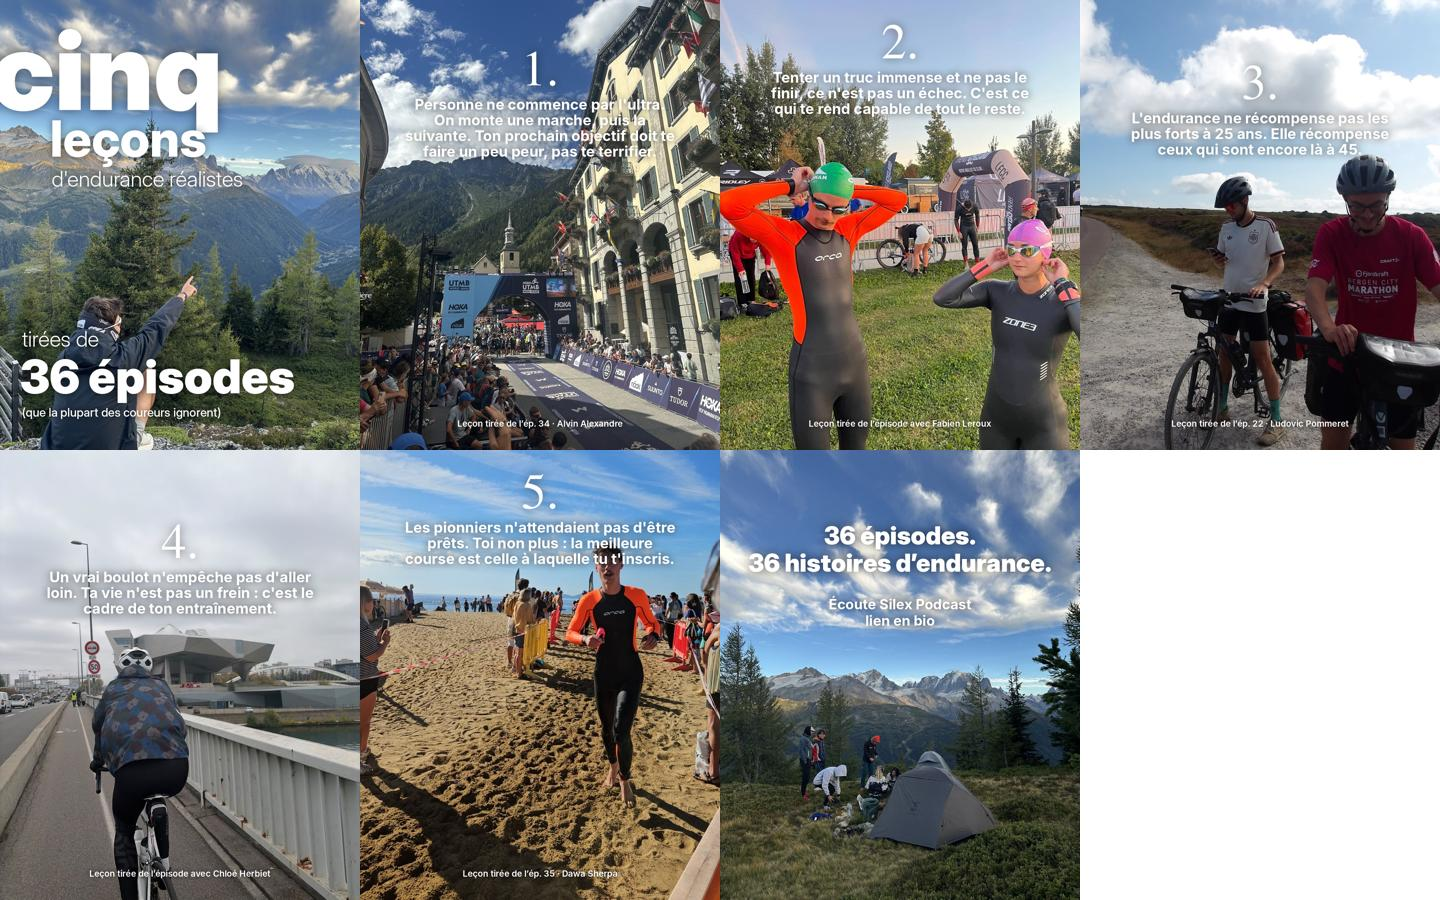
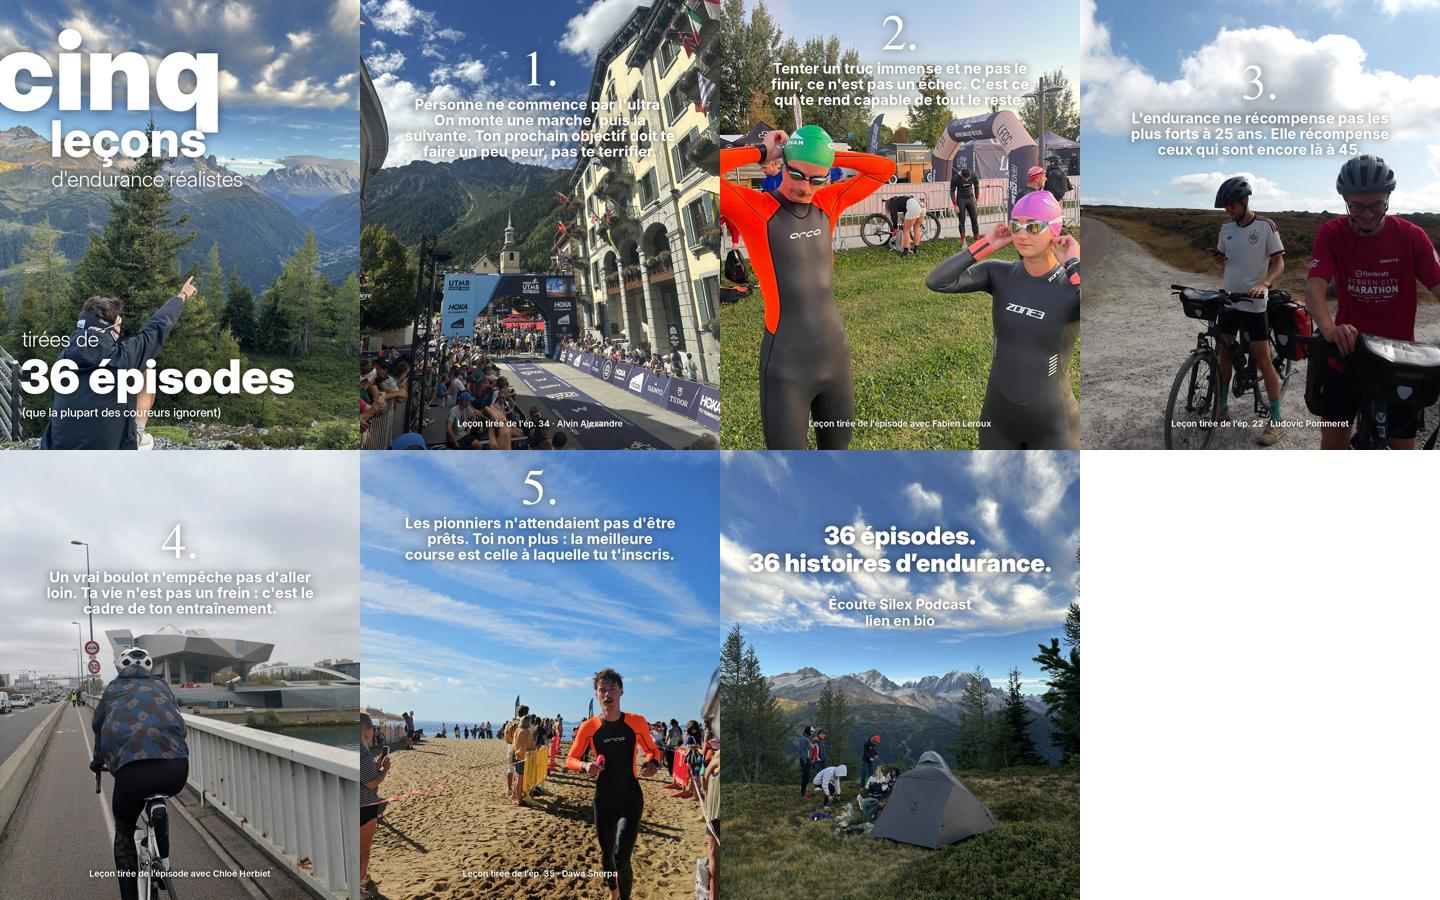
Carrousel Silex : zoom sur la photo en combinaison, slide 5 recadrée
Claude-Session: https://claude.ai/code/session_01Bwd8fxM92NWrr3aL1Qd296

Changed region(s): [[0.25, 0.4978, 0.5, 1.0], [0.5, 0.0, 0.75, 0.4978]]

diff --git a/carrousel-silex/make.py b/carrousel-silex/make.py
@@ -16,7 +16,7 @@ def font(name, size):
     return ImageFont.truetype(path, size)
 
 
-def photo(name, fx=0.5, fy=0.5):
+def photo(name, fx=0.5, fy=0.5, zoom=1.0):
     """Recadre la photo en 4:5 autour du point (fx, fy) puis la met en 1080x1350."""
     im = Image.open(os.path.join(HERE, 'photos', name + '.jpg')).convert('RGB')
     w, h = im.size
@@ -24,6 +24,7 @@ def photo(name, fx=0.5, fy=0.5):
         cw, ch = int(h * W / H), h
     else:
         cw, ch = w, int(w * H / W)
+    cw, ch = int(cw / zoom), int(ch / zoom)
     x = min(max(int(fx * w - cw / 2), 0), w - cw)
     y = min(max(int(fy * h - ch / 2), 0), h - ch)
     return im.crop((x, y, x + cw, y + ch)).resize((W, H), Image.LANCZOS).convert('RGBA')
@@ -61,8 +62,8 @@ def cover():
     return im
 
 
-def lesson(name, fx, fy, n, body, credit, cy):
-    im = photo(name, fx, fy)
+def lesson(name, fx, fy, n, body, credit, cy, zoom=1.0):
+    im = photo(name, fx, fy, zoom)
     y = int(H * cy)
     text(im, (W // 2, y), f'{n}.', font('FreeSerif', 150), anchor='ms', blur=14, op=130)
     b = font('Inter:bold', 44)
@@ -83,18 +84,18 @@ SLIDES = [
     ('arche-utmb', 0.5, 0.6, 1,
      "Personne ne commence par l'ultra. On monte une marche, puis la suivante. Ton prochain objectif doit te faire un peu peur, pas te terrifier.",
      'Leçon tirée de l’ép. 34 · Alvin Alexandre', 0.19),
-    ('avant-depart', 0.5, 0.5, 2,
+    ('avant-depart', 0.53, 0.55, 2,
      "Tenter un truc immense et ne pas le finir, ce n'est pas un échec. C'est ce qui te rend capable de tout le reste.",
-     'Leçon tirée de l’épisode avec Fabien Leroux', 0.13),
+     'Leçon tirée de l’épisode avec Fabien Leroux', 0.11, 1.15),
     ('velo-trio', 0.62, 0.5, 3,
      "L'endurance ne récompense pas les plus forts à 25 ans. Elle récompense ceux qui sont encore là à 45.",
      'Leçon tirée de l’ép. 22 · Ludovic Pommeret', 0.22),
     ('velo-lyon', 0.5, 0.5, 4,
      "Un vrai boulot n'empêche pas d'aller loin. Ta vie n'est pas un frein : c'est le cadre de ton entraînement.",
      'Leçon tirée de l’épisode avec Chloé Herbiet', 0.24),
-    ('sortie-eau', 0.5, 0.55, 5,
+    ('sortie-eau', 0.5, 0.0, 5,
      "Les pionniers n'attendaient pas d'être prêts. Toi non plus : la meilleure course est celle à laquelle tu t'inscris.",
-     'Leçon tirée de l’ép. 35 · Dawa Sherpa', 0.13),
+     'Leçon tirée de l’ép. 35 · Dawa Sherpa', 0.12),
 ]
 
 if __name__ == '__main__':
